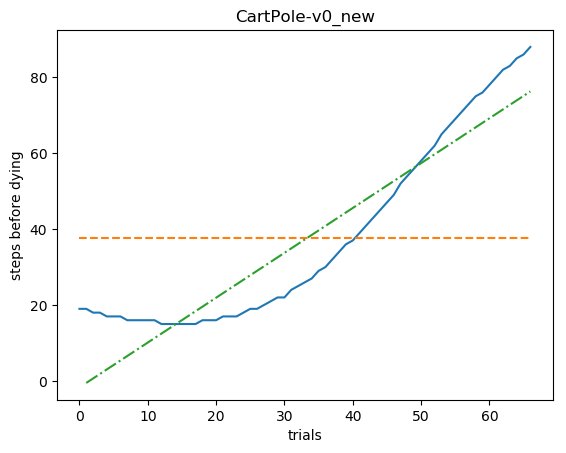
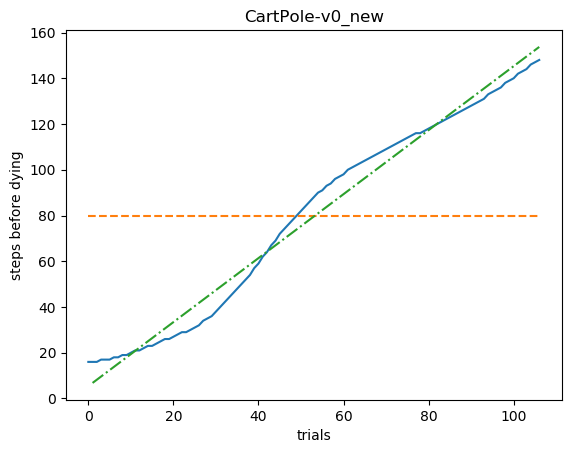
adjested discount function for reward

diff --git a/newCartpole.py b/newCartpole.py
@@ -89,6 +89,9 @@ class DQNAgent:
             if done[i]:
                 targets[i] = -1
 
+            elif reward[i] < 2.85:
+                targets[i] = reward[i]
+
             else:
                 targets[i] = reward[i] + self.gamma**3 * np.amax(next_Q_values[i])
 
@@ -114,7 +117,7 @@ class DQNAgent:
 
         discounted_reward = 0
         for t in range(0, len(last_rewards)):
-            discounted_reward = last_rewards[t] + discounted_reward * self.gamma
+            discounted_reward = discounted_reward + last_rewards[t] * self.gamma**t
 
         return discounted_reward
 
